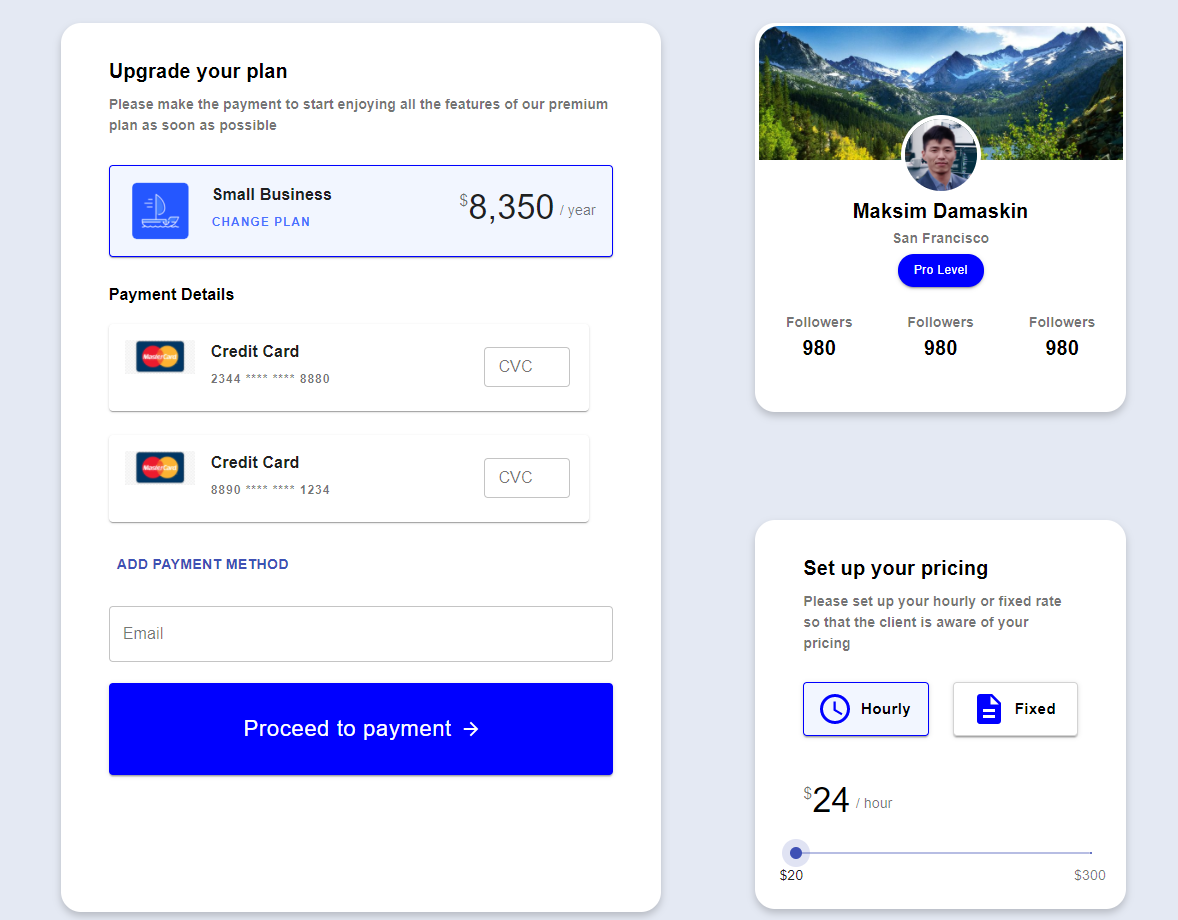
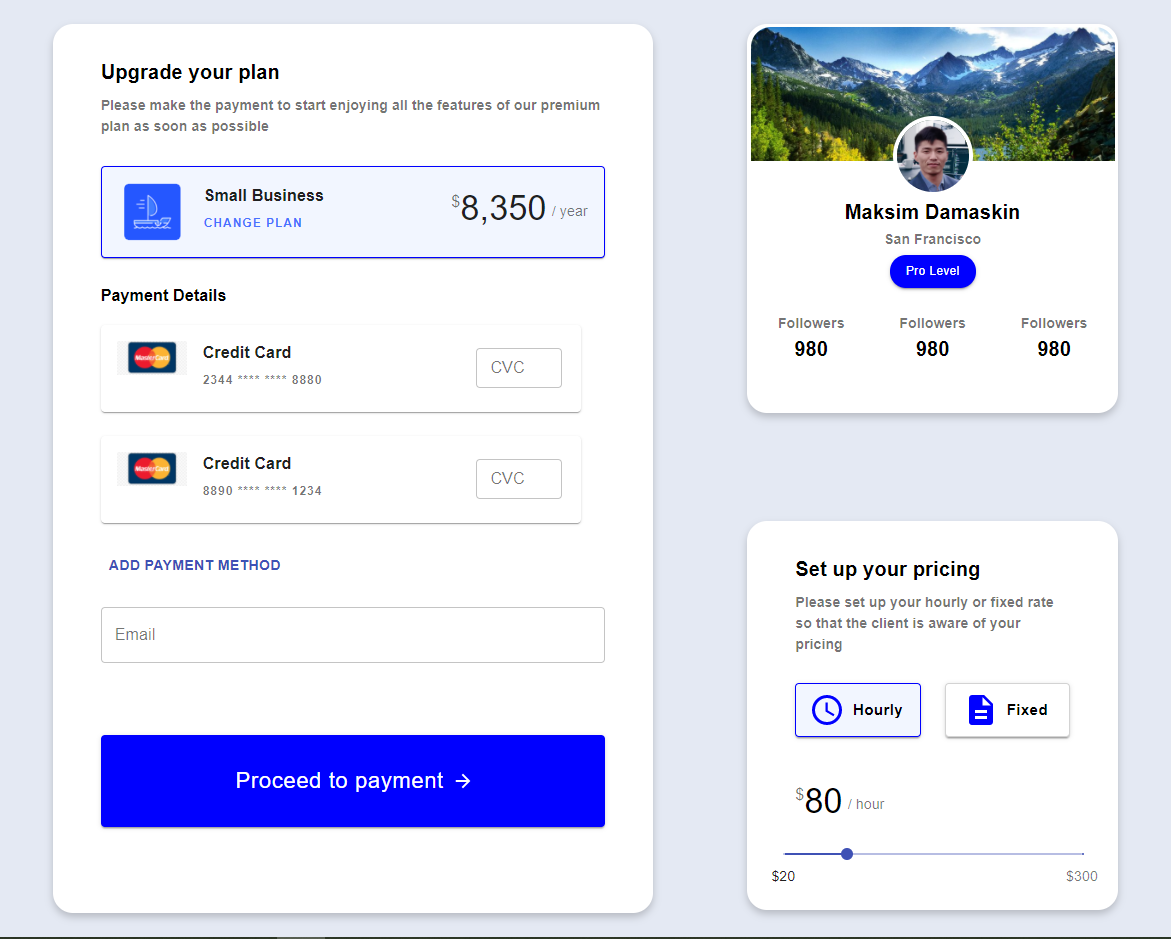
Update screenshots

diff --git a/src/components/ProceedPayment/index.js b/src/components/ProceedPayment/index.js
@@ -13,7 +13,8 @@ const useStyles = makeStyles((theme) => ({
       paddingTop:27,
       paddingBottom:27,
       textTransform:'none',
-      fontSize:22
+      fontSize:22,
+      marginTop:theme.spacing(9)
   }
 }));
 
@@ -32,7 +33,6 @@ export default function Index(props) {
         validators={["required", "isEmail"]}
         errorMessages={["This field is required", "Email is not valid"]}
       />
-      <br></br>
       <Button variant="contained" color="primary" fullWidth size="large" endIcon={<ArrowForwardIcon />} className={classes.button}>
         Proceed to payment
       </Button>
